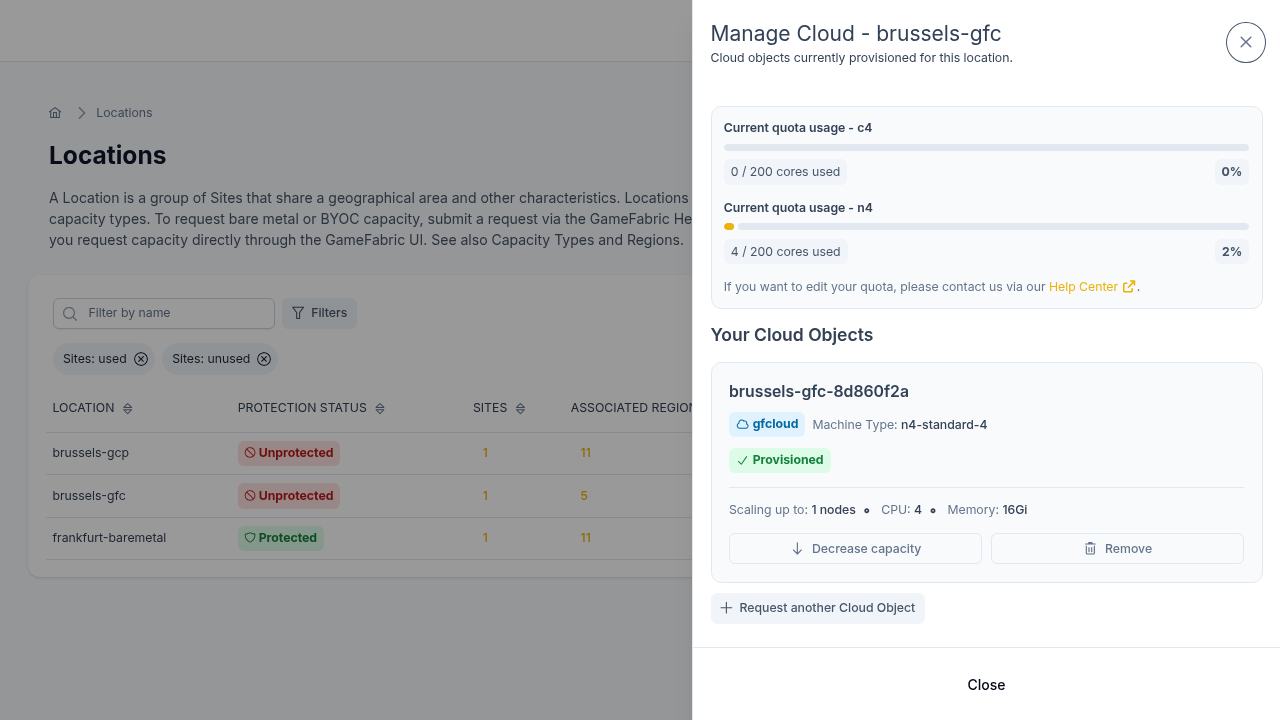
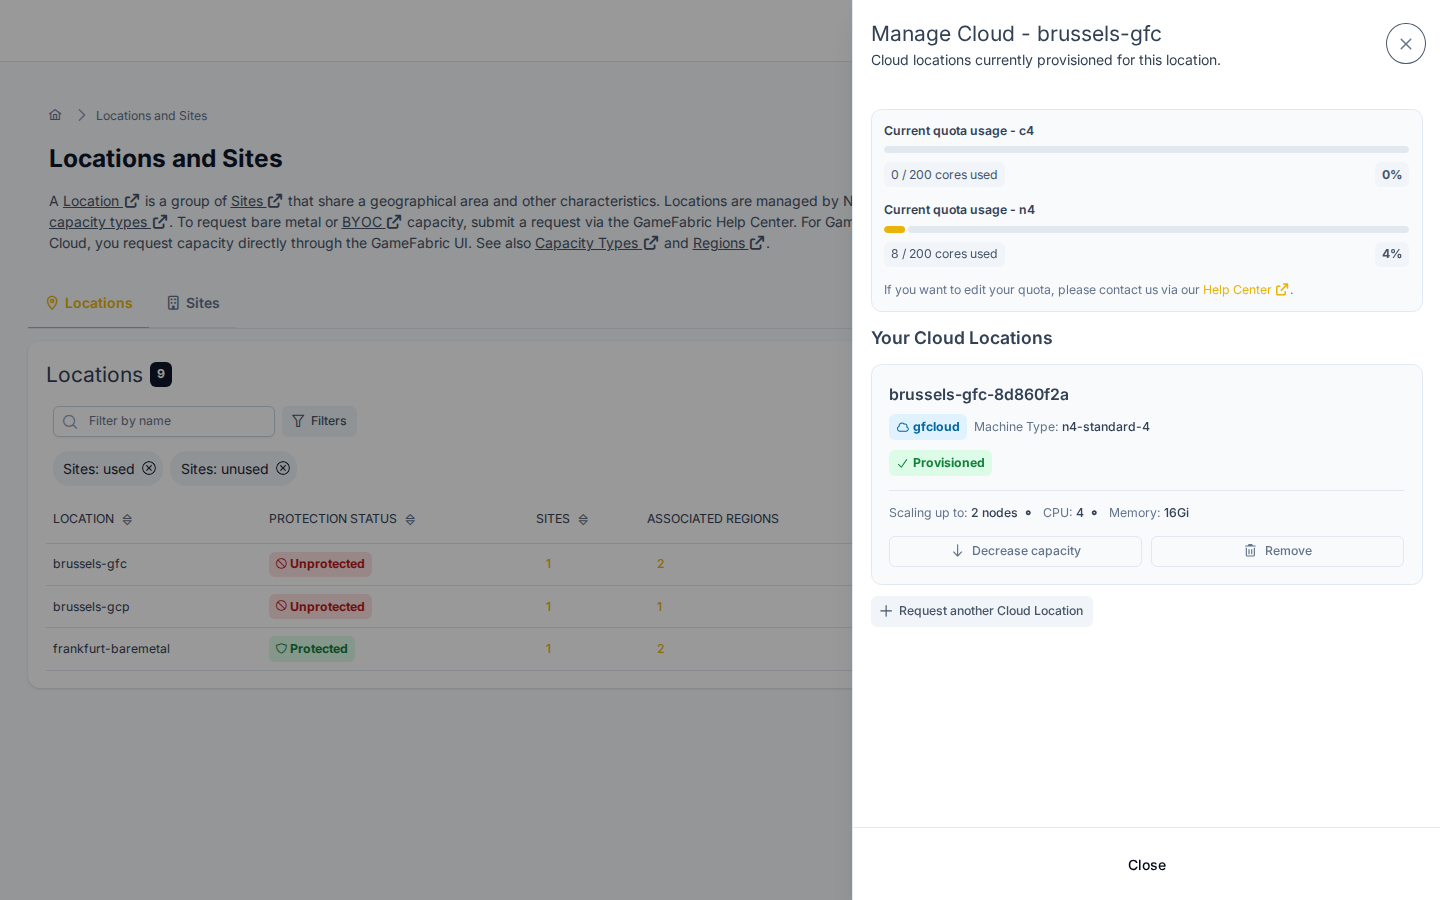
update missing scenarios

diff --git a/src/multiplayer-servers/architecture/regions-sites-and-locations.md b/src/multiplayer-servers/architecture/regions-sites-and-locations.md
@@ -141,8 +141,6 @@ represent:
 | `byoc` | Bring Your Own Cloud (customer's cloud account) |
 | `unknown` | Type has not been classified |
 
-GameFabric Cloud Locations display a `Managed` tag in the Locations list.
-
 ### Default filters
 
 The Locations list opens with default filters applied to reduce noise:
@@ -154,17 +152,17 @@ Clear these filters to see all Locations including those with no active capacity
 
 ### Managing GameFabric Cloud capacity
 
-On a GameFabric Cloud Location (marked with a **Managed** tag), a **Manage Cloud** button appears
+On a GameFabric Cloud Location, a **Manage Cloud** button appears
 in the actions column. Clicking it opens the **Manage Cloud** drawer, where you can view,
-request, downsize, and remove **Cloud Objects** — provisioning requests for GameFabric-managed
+request, downsize, and remove **Cloud Locations** — provisioning requests for GameFabric-managed
 compute at that Location.
 
-- While a Cloud Object is being set up, its state card shows `Provisioning`. Once live, it shows
+- While a Cloud Location is being set up, its state card shows `Provisioning`. Once live, it shows
   `Provisioned` and Sites appear under the Location.
-- To release capacity, use the **Remove** button on a Cloud Object card and choose between
+- To release capacity, use the **Remove** button on a Cloud Location card and choose between
   **Immediate** (force-stop all sessions now) or **Delayed** (cordon & drain with a 1–24 hour
   timer before force-teardown).
-- While removal is in progress the Cloud Object shows `Deprovisioning`.
+- While removal is in progress the Cloud Location shows `Deprovisioning`.
 
 ::: info
 GameFabric Cloud capacity cannot be added to Locations that already have BYOC capacity.

diff --git a/src/multiplayer-servers/getting-started/gamefabric-cloud.md b/src/multiplayer-servers/getting-started/gamefabric-cloud.md
@@ -6,7 +6,7 @@ GameFabric Cloud enables self-service provisioning and deprovisioning of cloud c
 
 Cloud capacity is requested per Location. Each request specifies a machine type and a node count (the scaling limit).
 
-Navigate to <span class="nbsp">**Capacity » Locations**</span> and either:
+Navigate to <span class="nbsp">**Locate » Locations & Sites**</span>, open the **Locations** tab, and either:
 
 - Click **Request Cloud** in the page header, or
 - [Find a GameFabric Cloud Location](#find-managed-cloud-locations) and click **Manage Cloud** in its row.
@@ -94,9 +94,9 @@ Use this when you need to release capacity immediately and no active players are
 
 ## Find managed Cloud Locations
 
-The Locations dashboard opens with default filters that exclude unprovisioned and unassigned Locations.
+The **Locations** tab opens with default filters that exclude unprovisioned and unassigned Locations.
 
-To find all managed Cloud Locations, clear the default filters, then select **gamefabric** from the **Filter by Types** dropdown. 
+To find all managed Cloud Locations, clear the default filters, click **Filters**, then select **gamefabric** from the **Filter by Types** dropdown. 
 To narrow to only Locations with active capacity, also select **used** from the **Filter by Sites** dropdown.
 
 ![Locations list filtered to show only GameFabric-managed cloud Locations](images/cloud/find-managed-cloud-locations.png)

diff --git a/src/multiplayer-servers/getting-started/setup-your-environment.md b/src/multiplayer-servers/getting-started/setup-your-environment.md
@@ -47,11 +47,11 @@ First, visit the "Regions" section in the Environment you wish to create a Regio
 
 ![GUI_Regions.png](images/region/GUI_Regions.png)
 
-Create a new Region by clicking the "Create Region" button.
+Create a new Region by clicking the "Create Region" button. This opens a drawer.
 
 ![GUI_Regions_Create.png](images/region/GUI_Regions_Create.png)
 
-Give it a name that makes its purpose explicit and a display name to match, then click the "Next" button.
+Give it a name that makes its purpose explicit and a display name to match, then click the "Next" button to go to the "Infrastructure Types" step.
 
 ![GUI_Regions_Create_Types.png](images/region/GUI_Regions_Create_Types.png)
 
